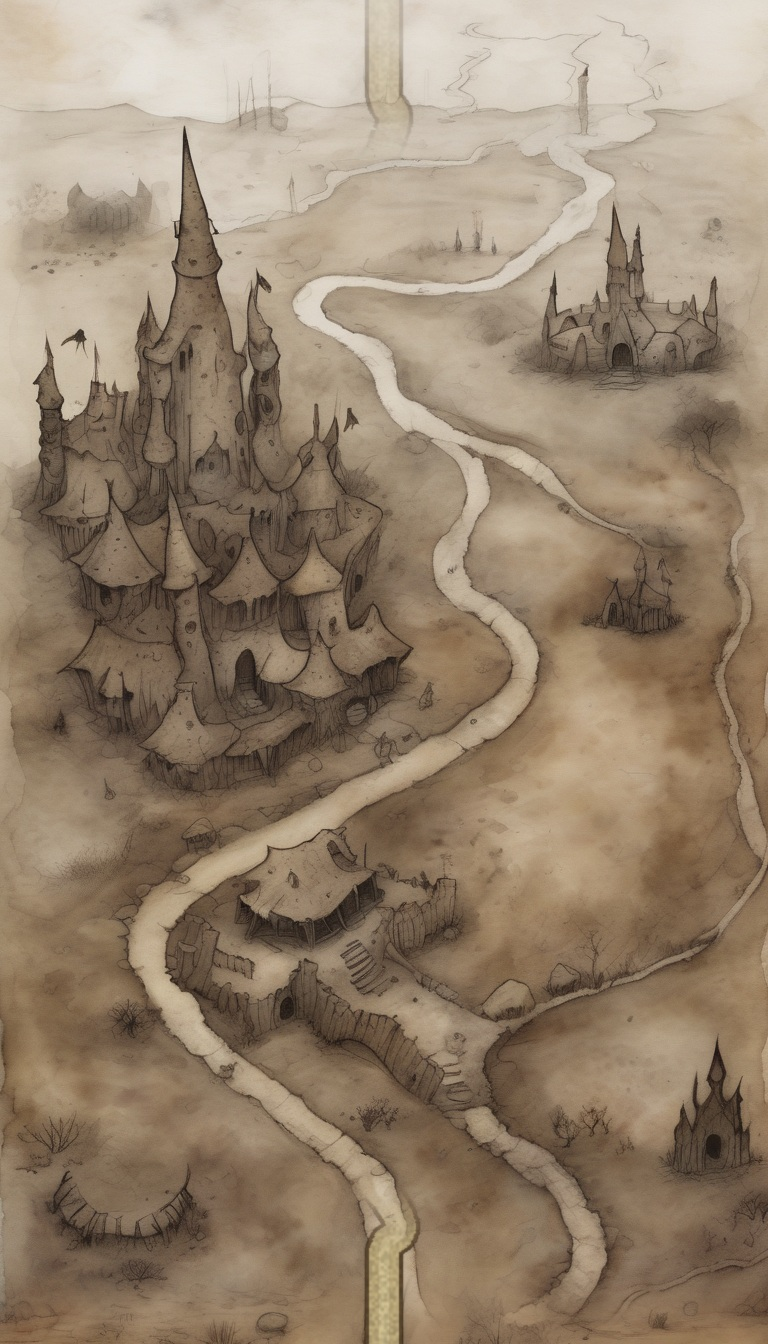
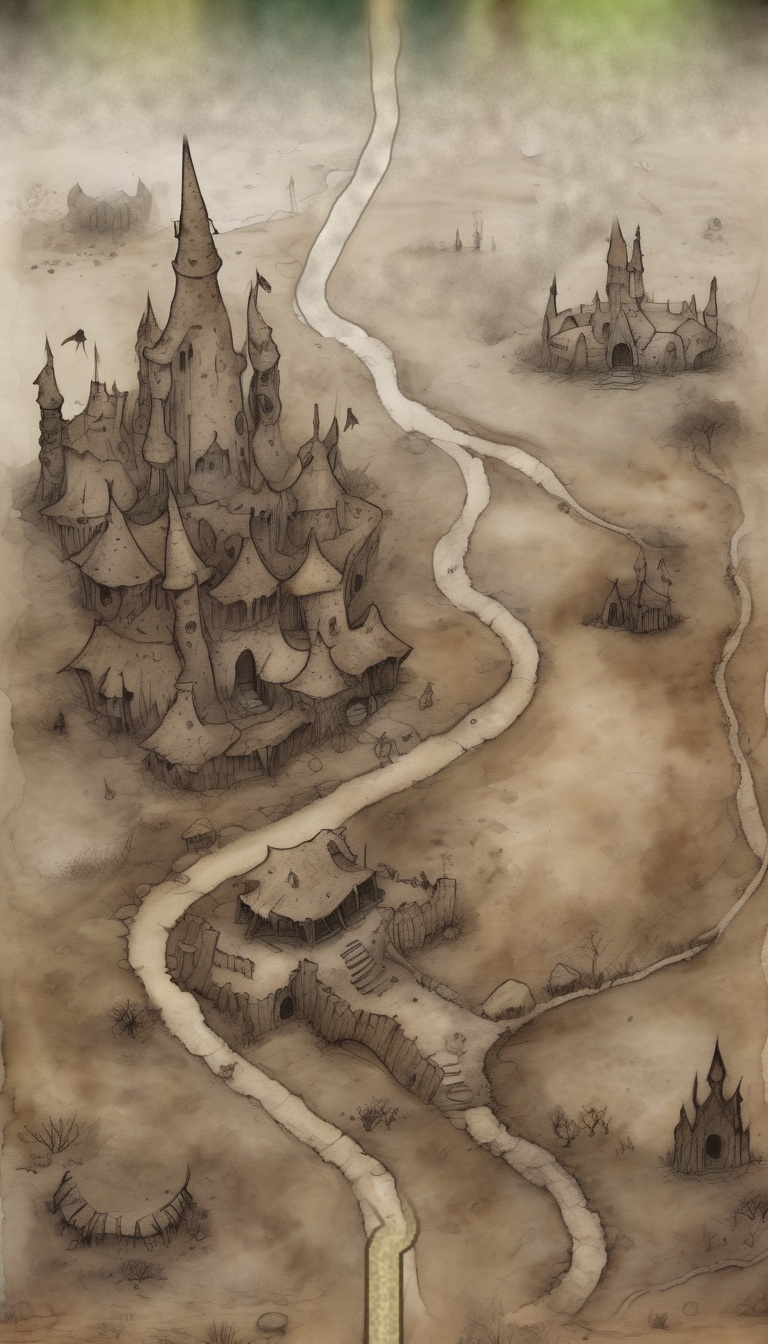
Sapper's Path Land 1 Kitten Forest: castle sheet 25's top retouched in 2D (mist and the road's right bend gone, one painted road up to x=384, the ground blending into the forest); the original stays in git history

Changed region(s): [[0.0, 0.0, 1.0, 0.25]]

diff --git a/sappers-path/tools/map-gen/retouch-25.py b/sappers-path/tools/map-gen/retouch-25.py
@@ -1,0 +1,99 @@
+# Sapper's Path Land 1: the 2D retouch of castle sheet 25's top (tools/land-01-notes.md §6). Once Kitten Forest sits above
+# the summit the fog no longer hides sheet 25's top: painted mist, a horizon at about row 100, a far tower and the painted
+# road bending right to about x = 600, while the layout road (and the forest's road) runs up to x = 384. No image model
+# (the GPU is busy and the brief allows none): a plain 2D retouch of the top band only, the rest of the sheet untouched.
+#   1. Erase the mist band (rows 0 to TOP), the road's right bend (BEND, within BEND_R px) and their soft edges.
+#   2. Fill with the sheet's own sepia ground: the low frequencies from cv2.inpaint (Telea) on a 1/4 size copy, then the
+#      watercolour mottling and the paper grain as blurred noise at the strengths measured on a clean patch of plain
+#      (DONOR; noise, not a cloned tile, so nothing repeats).
+#   3. Paint the road on as the sheet paints it (its profile measured across the painted road below): a pale cream band
+#      ROAD_W wide along NEW (from the painted road's turn at its foot up to x = 384 at the top), uneven inside, a sharp
+#      darker edge and a faint wash outside.
+#   4. Blend into the forest: rows 0 to FOREST take the colour of Kitten Forest sheet A's bottom row (each column, blurred
+#      across), fading out downward, so the page's 80 px crossfade lands on matching ground and road.
+# The original is in git history (map/sheet-25.jpg before this commit). Saved with the original's quantization tables and
+# subsampling, so rows below the band change only by the JPEG round trip (measured in the notes).
+#   /Users/peter/local-ai/.venv/bin/python tools/map-gen/retouch-25.py ORIG.jpg LAND_A.webp OUT.jpg [PREVIEW.png]
+import sys
+import numpy as np
+import cv2
+from PIL import Image, JpegImagePlugin
+from scipy.ndimage import gaussian_filter, distance_transform_edt
+
+TOP, FOREST, SOFT = 132, 150, 14              # the mist band, the forest blend's reach, the erase mask's feather (px)
+BEND = [(325, 292), (360, 288), (400, 287), (440, 286), (480, 283), (505, 276), (525, 262), (545, 243), (565, 229), (585, 215),
+        (597, 197), (598, 180), (585, 165), (570, 155), (575, 145), (600, 133), (615, 120), (612, 100)]
+BEND_R = 24                                    # the old road's half width plus its edge wash
+TRACK = [(318, 214), (360, 190), (420, 165), (480, 145), (525, 125)]   # a faint track the new road would cross
+TRACK_R = 10
+NEW = [(354, 342), (334, 330), (318, 316), (310, 300), (312, 280), (325, 250), (345, 215), (365, 180), (379, 150), (387, 120), (386, 95), (384, 70), (384, 0)]
+ROAD_W, EDGE = 26, 4                          # the painted road's width (the coded road is 30) and its edge
+DONOR = (476, 380, 596, 440)                  # a clean patch of plain below the bend (x0, y0, x1, y1)
+STOP = 340                                    # nothing below this row changes (the JPEG round trip aside)
+
+def dense(pts, step=1.0):  # a polyline resampled every `step` px
+    out = []
+    for (x0, y0), (x1, y1) in zip(pts, pts[1:]):
+        n = max(1, int(np.hypot(x1 - x0, y1 - y0) / step))
+        for k in range(n): out.append((x0 + (x1 - x0) * k / n, y0 + (y1 - y0) * k / n))
+    out.append(pts[-1]); return np.array(out)
+
+def smooth(pts, k=9):  # a light moving average over a dense polyline (ends kept)
+    p = pts.copy()
+    for i in range(k, len(p) - k): p[i] = pts[i - k:i + k + 1].mean(0)
+    return p
+
+def dist_to(poly, H, W):  # distance of every pixel to a polyline (via a rasterized 1 px line)
+    m = np.ones((H, W), np.uint8)
+    q = np.round(poly).astype(int)
+    for (x0, y0), (x1, y1) in zip(q, q[1:]): cv2.line(m, (int(x0), int(y0)), (int(x1), int(y1)), 0, 1)
+    return distance_transform_edt(m)
+
+def main():
+    src, land_a, out = sys.argv[1], sys.argv[2], sys.argv[3]
+    jp = Image.open(src); im = np.asarray(jp.convert("RGB")).astype(np.float32); H, W = im.shape[:2]
+    # 1. the erase mask (1 = rebuild), feathered
+    yy = np.arange(H)[:, None] + np.zeros((1, W))
+    hard = (yy <= TOP) | (dist_to(dense(BEND), H, W) <= BEND_R) | (dist_to(dense(TRACK), H, W) <= TRACK_R)
+    soft = np.clip(1 - (distance_transform_edt(~hard) / SOFT), 0, 1).astype(np.float32)
+    soft[STOP:] = 0
+    # 2. the fill: low frequencies by inpainting a 1/4 copy, mottling and grain from the donor patch
+    q = 4; small = cv2.resize(im, (W // q, H // q), interpolation=cv2.INTER_AREA)
+    msk = cv2.resize((soft > 0.02).astype(np.uint8) * 255, (W // q, H // q), interpolation=cv2.INTER_NEAREST)
+    low = cv2.inpaint(np.clip(small, 0, 255).astype(np.uint8), msk, 12, cv2.INPAINT_TELEA).astype(np.float32)
+    low = cv2.resize(gaussian_filter(low, (3, 3, 0)), (W, H), interpolation=cv2.INTER_CUBIC)
+    x0, y0, x1, y1 = DONOR; d = im[y0:y1, x0:x1]
+    mot_sd = (gaussian_filter(d, (4, 4, 0)) - gaussian_filter(d, (12, 12, 0))).std((0, 1))      # the watercolour mottling
+    grn_sd = (d - gaussian_filter(d, (1.2, 1.2, 0))).std((0, 1))                                  # the paper grain
+    rng = np.random.default_rng(25)
+    def field(sig):  # gaussian noise blurred to scale sig, unit std (no tiling, so no repeat)
+        f = gaussian_filter(rng.normal(0, 1, (H, W)), sig); return f / f.std()
+    mot, grn = field(6), field(0.8)
+    tex = mot[..., None] * mot_sd * 1.0 + grn[..., None] * grn_sd
+    fill = low + tex
+    # 3. the road: a pale band with a sharp darker edge and a faint wash outside, as the sheet's painted road
+    road = smooth(dense(NEW, 1.0), 6)
+    dr = dist_to(road, H, W)
+    half = ROAD_W / 2 + field(10) * 1.6                              # the edges wobble about +-2 px
+    cream = np.array([212, 202, 185], np.float32); ink = np.array([118, 104, 88], np.float32); wash = np.array([142, 128, 108], np.float32)
+    a_in = np.clip(half - dr + 0.5, 0, 1)                            # inside the road
+    a_line = np.clip(1 - np.abs(dr - half) / (EDGE / 2), 0, 1) * 0.8 # the sharp darker edge
+    a_wash = np.clip(1 - (dr - half) / (EDGE * 2.5), 0, 1) * (dr > half) * 0.25   # a faint wash just outside
+    road_c = cream + (mot[..., None] * 9 + grn[..., None] * grn_sd)  # watercolour unevenness inside
+    base = im * (1 - soft[..., None]) + fill * soft[..., None]
+    rmask = (yy <= STOP - 4)[..., None].astype(np.float32)
+    for a, c in ((a_wash, wash), (a_in, road_c), (a_line, ink)): base = base * (1 - a[..., None] * rmask) + c * a[..., None] * rmask
+    # 4. the forest blend: sheet A's bottom row per column (blurred across), fading out downward
+    A = np.asarray(Image.open(land_a).convert("RGB")).astype(np.float32)
+    edge = gaussian_filter(A[-6:].mean(0), (9, 0))                    # W x 3
+    t = np.clip(1 - yy / FOREST, 0, 1) ** 1.6
+    base = base * (1 - t[..., None]) + (edge[None] + tex * 0.6) * t[..., None]
+    res = np.clip(base, 0, 255).astype(np.uint8)
+    res[STOP:] = np.asarray(jp.convert("RGB"))[STOP:]                # below the band: the original pixels exactly
+    o = Image.fromarray(res)
+    o.save(out, qtables=jp.quantization, subsampling=JpegImagePlugin.get_sampling(jp), progressive=True, optimize=True)
+    if len(sys.argv) > 4: o.crop((0, 0, W, 460)).save(sys.argv[4])
+    print("sheet 25 retouched: rows 0-%d (mist %d, road bend, forest blend %d) -> %s" % (STOP, TOP, FOREST, out))
+
+if __name__ == "__main__":
+    main()
